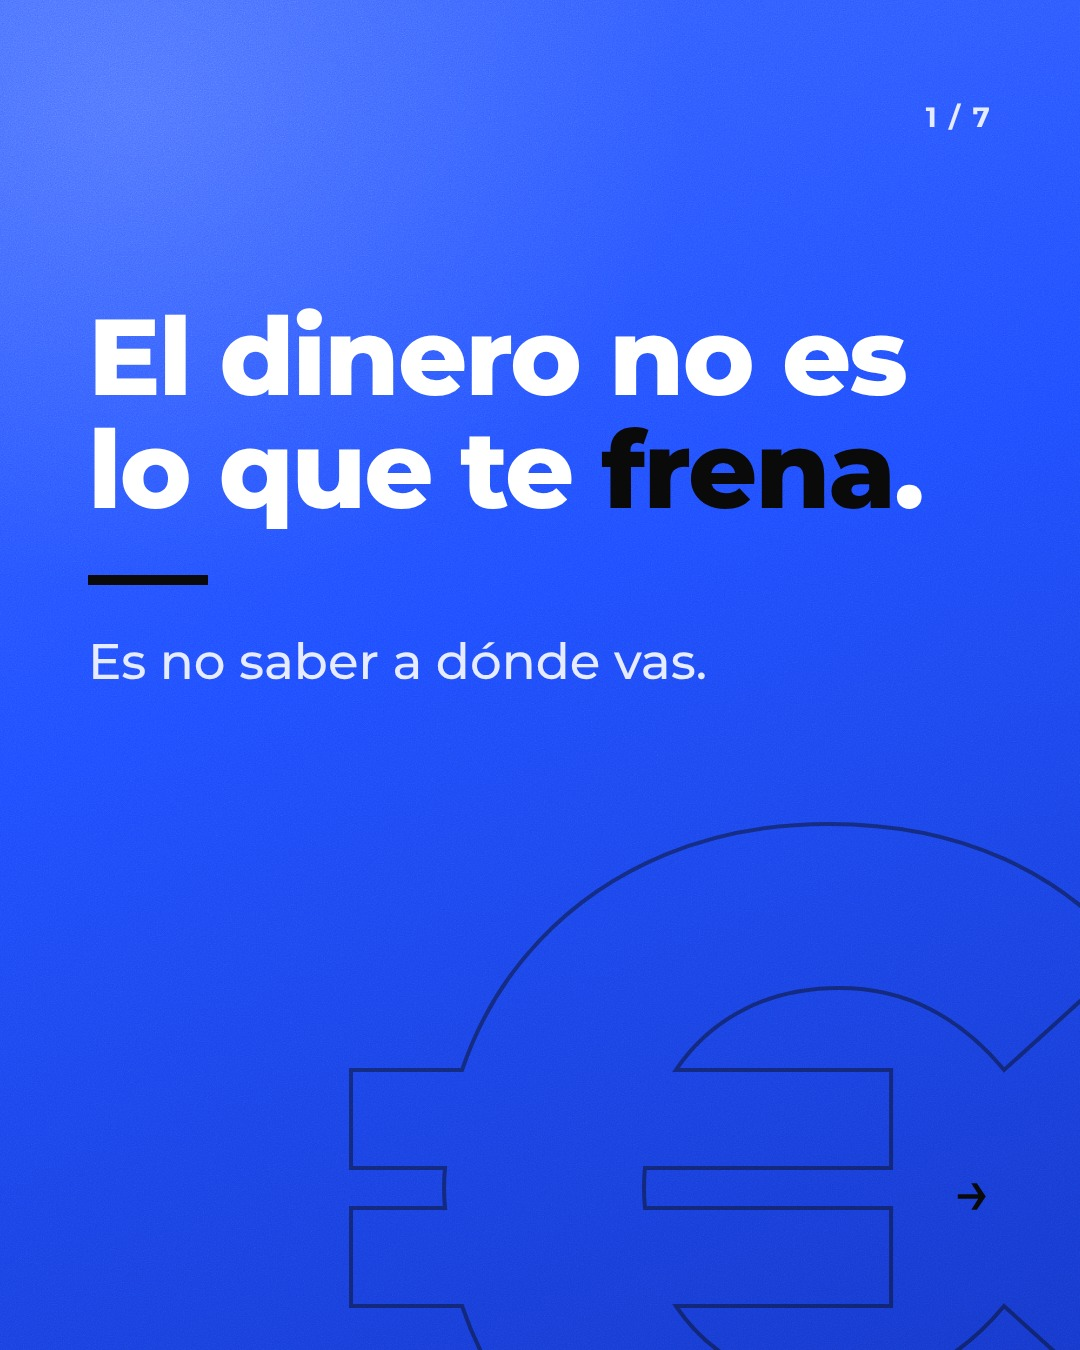
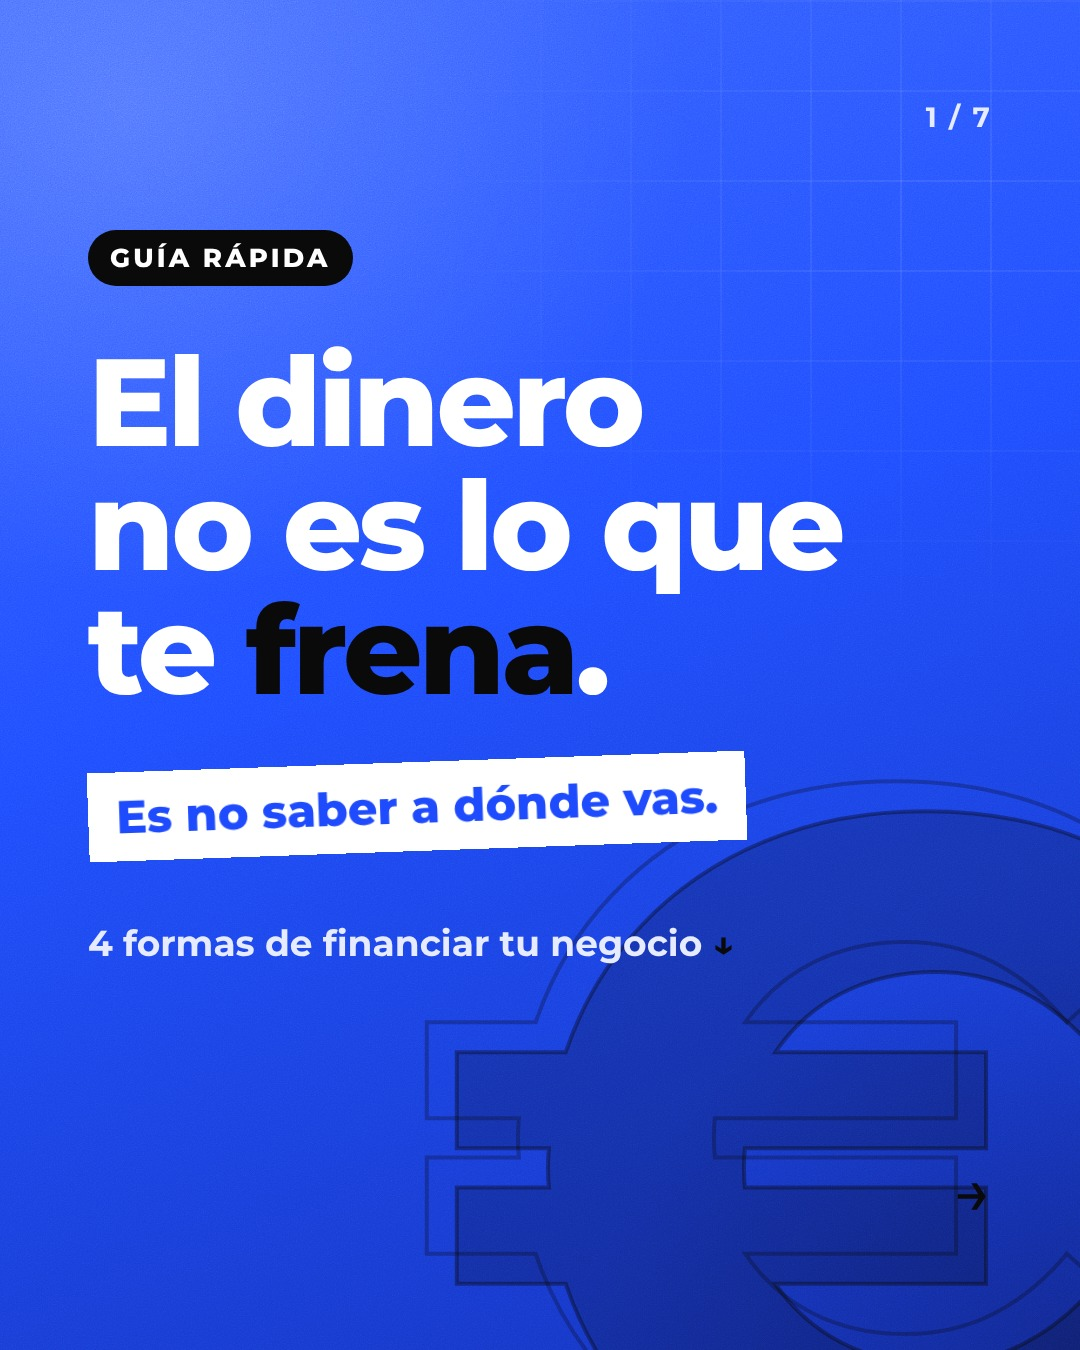
12-financiacion: versión gráfica + historia de aviso del viernes 13
Claude-Session: https://claude.ai/code/session_017QZaA8qgokDHtEnzxU5B1Y

diff --git a/tools/render_12_financiacion.py b/tools/render_12_financiacion.py
@@ -1,100 +1,188 @@
-"""Carrusel 12-financiacion (azul, 7 diapositivas, explicativo).
-Uso: python3 tools/render_12_financiacion.py  -> genera 12-financiacion/1..7.jpg
+"""Carrusel 12-financiacion (azul, 7 diapositivas, explicativo, versión gráfica) + historia de aviso.
+Uso: python3 tools/render_12_financiacion.py
+  -> 12-financiacion/1..7.jpg (1080x1350) y historias/2026-11-13-viernes-post.jpg (1080x1920)
 Requiere Montserrat en /tmp/mont/fonts/ttf (git clone github.com/JulietaUla/Montserrat /tmp/mont)."""
-import asyncio, os, sys
+import asyncio, os
 from playwright.async_api import async_playwright
 from PIL import Image
 
-# Mismo fondo y fuentes que tools/render_carrusel_textura.py
-F="/tmp/mont/fonts/ttf/"
-FONTS=f"""@font-face{{font-family:M;src:url(file://{F}Montserrat-Medium.ttf);font-weight:500}}
+F = "/tmp/mont/fonts/ttf/"
+FONTS = f"""@font-face{{font-family:M;src:url(file://{F}Montserrat-Medium.ttf);font-weight:500}}
 @font-face{{font-family:M;src:url(file://{F}Montserrat-Bold.ttf);font-weight:700}}
 @font-face{{font-family:M;src:url(file://{F}Montserrat-ExtraBold.ttf);font-weight:800}}"""
-GRAIN='<svg style="position:absolute;inset:0;width:100%;height:100%;mix-blend-mode:overlay;opacity:{o}" xmlns="http://www.w3.org/2000/svg"><filter id="n"><feTurbulence type="fractalNoise" baseFrequency="0.85" numOctaves="3" stitchTiles="stitch"/><feColorMatrix type="saturate" values="0"/></filter><rect width="100%" height="100%" filter="url(#n)"/></svg>'
-BLUE_BG='<div style="position:absolute;inset:0;background:linear-gradient(160deg,#3A62FF 0%,#1F4BFF 45%,#1636C9 100%)"></div><div style="position:absolute;inset:0;background:radial-gradient(800px 700px at 12% 8%,#ffffff22,transparent 70%)"></div>'+GRAIN.format(o=.45)
+GRAIN = ('<svg style="position:absolute;inset:0;width:100%;height:100%;mix-blend-mode:overlay;opacity:{o}" '
+         'xmlns="http://www.w3.org/2000/svg"><filter id="n"><feTurbulence type="fractalNoise" baseFrequency="0.85" '
+         'numOctaves="3" stitchTiles="stitch"/><feColorMatrix type="saturate" values="0"/></filter>'
+         '<rect width="100%" height="100%" filter="url(#n)"/></svg>')
+BLUE = ('<div style="position:absolute;inset:0;background:linear-gradient(160deg,#3A62FF 0%,#1F4BFF 45%,#1430B8 100%)"></div>'
+        '<div style="position:absolute;inset:0;background:radial-gradient(800px 700px at 12% 8%,#ffffff26,transparent 70%),'
+        'radial-gradient(700px 600px at 100% 100%,#0A0A0A40,transparent 70%)"></div>')
+GRID = ('<div style="position:absolute;inset:0;background-image:linear-gradient(#ffffff14 2px,transparent 2px),'
+        'linear-gradient(90deg,#ffffff14 2px,transparent 2px);background-size:90px 90px;'
+        '-webkit-mask-image:radial-gradient(700px 600px at 85% 15%,#000,transparent 75%)"></div>')
 
-OUT = os.path.join(os.path.dirname(__file__), "..", "12-financiacion")
+ROOT = os.path.join(os.path.dirname(__file__), "..")
 W, H, PY, PX = 1080, 1350, 190, 88
 K = '<span style="color:#0A0A0A">'
 SUB = "#E6EBFF"
 TOTAL = 7
 
+# Iconos de línea (blanco, 200x200)
+S = 'fill="none" stroke="#fff" stroke-width="9" stroke-linecap="round" stroke-linejoin="round"'
+ICONS = {
+    "monedas": f'<svg width="200" height="200" viewBox="0 0 200 200"><g {S}><ellipse cx="80" cy="150" rx="55" ry="18"/>'
+               f'<path d="M25 150v-24M135 150v-24"/><ellipse cx="80" cy="126" rx="55" ry="18"/><path d="M25 126v-24M135 126v-24"/>'
+               f'<ellipse cx="80" cy="102" rx="55" ry="18" fill="#0A0A0A"/><circle cx="150" cy="58" r="34"/><text x="150" y="72" text-anchor="middle" font-family="M" font-weight="800" font-size="40" fill="#fff" stroke="none">€</text></g></svg>',
+    "personas": f'<svg width="200" height="200" viewBox="0 0 200 200"><g {S}><circle cx="70" cy="70" r="28"/>'
+                f'<path d="M20 165c0-32 22-52 50-52s50 20 50 52"/><circle cx="135" cy="62" r="24" fill="#0A0A0A"/>'
+                f'<path d="M108 108c9-6 17-8 27-8 26 0 45 19 45 50"/></g></svg>',
+    "documento": f'<svg width="200" height="200" viewBox="0 0 200 200"><g {S}><path d="M50 20h70l35 35v125H50z"/>'
+                 f'<path d="M120 20v35h35"/><path d="M75 95h55M75 120h55"/><circle cx="140" cy="155" r="30" fill="#0A0A0A"/>'
+                 f'<path d="M127 155l9 9 17-18"/></g></svg>',
+    "banco": f'<svg width="200" height="200" viewBox="0 0 200 200"><g {S}><path d="M20 70l80-45 80 45z"/>'
+             f'<path d="M40 85v65M80 85v65M120 85v65M160 85v65"/><path d="M20 170h160"/></g></svg>',
+}
 
-def page(n, inner, deco="", last=False):
+
+def wrap(inner, w=W, h=H):
+    return (f'<html><head><style>{FONTS}body{{margin:0}}</style></head><body>'
+            f'<div style="position:relative;overflow:hidden;width:{w}px;height:{h}px;font-family:M;color:#fff">{inner}</div></body></html>')
+
+
+def page(n, inner, deco="", last=False, grid=True):
     cnt = f'<div style="position:absolute;right:{PX}px;top:{PY-90}px;font-size:28px;font-weight:700;letter-spacing:.08em;color:{SUB}">{n} / {TOTAL}</div>'
     foot = (f'<div style="position:absolute;right:{PX}px;bottom:{PY-60}px;font-size:34px;font-weight:700">Escríbeme por privado <span style="color:#0A0A0A">→</span></div>'
             if last else f'<div style="position:absolute;right:{PX}px;bottom:{PY-70}px;font-size:64px;font-weight:500;color:#0A0A0A">→</div>')
-    return f"""<html><head><style>{FONTS}body{{margin:0}}</style></head><body>
-<div style="position:relative;overflow:hidden;width:{W}px;height:{H}px;font-family:M;color:#fff">{BLUE_BG}{deco}{cnt}{inner}{foot}</div></body></html>"""
+    return wrap(BLUE + (GRID if grid else "") + deco + GRAIN.format(o=.42) + cnt + inner + foot)
 
 
-def giant(ch, right=None, left=None, bottom=-420, size=1150, op=.35):
-    side = f"right:{right}px" if right is not None else f"left:{left}px"
-    return f'<div style="position:absolute;{side};bottom:{bottom}px;font-size:{size}px;font-weight:800;line-height:1;color:transparent;-webkit-text-stroke:4px #0A0A0A;opacity:{op}">{ch}</div>'
+def chip(txt, dark=True):
+    bg = "background:#0A0A0A;color:#fff" if dark else "border:3px solid #0A0A0A;color:#0A0A0A"
+    return f'<span style="display:inline-block;{bg};padding:12px 22px;border-radius:999px;font-size:26px;font-weight:800;letter-spacing:.12em">{txt}</span>'
 
 
-def big(title, sub, top=300):
-    return (f'<div style="position:absolute;left:{PX}px;right:{PX}px;top:{top}px">'
-            f'<div style="font-size:108px;font-weight:800;line-height:1.05;letter-spacing:-0.02em">{title}</div>'
-            f'<div style="width:120px;height:10px;background:#0A0A0A;margin-top:48px"></div>'
-            f'<p style="margin:44px 0 0;font-size:50px;font-weight:500;line-height:1.3;color:{SUB}">{sub}</p></div>')
+# ---------- 1 · portada ----------
+euro = ''.join(
+    f'<div style="position:absolute;right:{-150+o}px;bottom:{-300+o}px;font-size:980px;font-weight:800;line-height:1;'
+    f'color:transparent;-webkit-text-stroke:{4 if i else 0}px #0A0A0A;opacity:{.18+i*.12}">€</div>' for i, o in enumerate((60, 30, 0)))
+euro += '<div style="position:absolute;right:-150px;bottom:-300px;font-size:980px;font-weight:800;line-height:1;color:#0A0A0A;opacity:.22">€</div>'
+s1 = page(1, f'''
+<div style="position:absolute;left:{PX}px;top:{PY+40}px">{chip("GUÍA RÁPIDA")}</div>
+<div style="position:absolute;left:{PX}px;right:{PX}px;top:{PY+150}px">
+  <div style="font-size:124px;font-weight:800;line-height:1;letter-spacing:-0.03em">El dinero<br>no es lo que<br>te {K}frena</span>.</div>
+  <div style="display:inline-block;margin-top:50px;background:#fff;color:#1F4BFF;padding:16px 28px;font-size:46px;font-weight:800;transform:rotate(-2deg)">Es no saber a dónde vas.</div>
+  <div style="margin-top:70px;font-size:36px;font-weight:700;color:{SUB}">4 formas de financiar tu negocio <span style="color:#0A0A0A">↓</span></div>
+</div>''', deco=euro)
 
 
-def lista(label, title, items, pro, contra, extra=""):
-    lis = "".join(
-        f'<div style="display:flex;gap:22px;margin-top:34px;font-size:44px;font-weight:500;line-height:1.3">'
-        f'<span style="color:#0A0A0A;font-weight:800">—</span><span>{t}</span></div>' for t in items)
-    pc = (f'<div style="display:flex;gap:16px;margin-top:56px;font-size:34px;font-weight:700">'
-          f'<span style="background:#0A0A0A;padding:12px 22px;border-radius:6px">+ {pro}</span>'
-          f'<span style="border:3px solid #0A0A0A;padding:9px 22px;border-radius:6px">− {contra}</span></div>')
-    return (f'<div style="position:absolute;left:{PX}px;right:{PX}px;top:{PY+70}px">'
-            f'<div style="font-size:30px;font-weight:800;letter-spacing:.14em;color:#0A0A0A">{label}</div>'
-            f'<div style="margin-top:30px;font-size:84px;font-weight:800;line-height:1.08;letter-spacing:-0.02em">{title}</div>'
-            f'<div style="margin-top:14px">{lis}</div>{pc}{extra}</div>')
+# ---------- 2-5 · las 4 formas ----------
+def forma(n, num, label, title, icon, items, pro, contra, extra=""):
+    big_num = (f'<div style="position:absolute;right:-30px;bottom:-140px;font-size:640px;font-weight:800;line-height:1;'
+               f'color:transparent;-webkit-text-stroke:4px #0A0A0A;opacity:.28;letter-spacing:-0.05em">{num}</div>')
+    cards = "".join(
+        f'<div style="display:flex;align-items:center;gap:26px;margin-top:20px;padding:22px 28px;border-radius:22px;'
+        f'background:#ffffff1f;border:2px solid #ffffff40;backdrop-filter:blur(4px)">'
+        f'<span style="flex:none;width:52px;height:52px;border-radius:50%;background:#0A0A0A;display:flex;align-items:center;'
+        f'justify-content:center;font-size:26px;font-weight:800">{i}</span>'
+        f'<span style="font-size:37px;font-weight:500;line-height:1.25">{t}</span></div>' for i, t in enumerate(items, 1))
+    pc = (f'<div style="display:flex;gap:16px;margin-top:34px;font-size:32px;font-weight:700">'
+          f'<span style="background:#0A0A0A;padding:12px 24px;border-radius:999px">+ {pro}</span>'
+          f'<span style="border:3px solid #0A0A0A;padding:9px 24px;border-radius:999px">− {contra}</span></div>')
+    body = (f'<div style="position:absolute;right:{PX-10}px;top:{PY+10}px">{ICONS[icon]}</div>'
+            f'<div style="position:absolute;left:{PX}px;right:{PX}px;top:{PY+40}px">{chip(num + " · " + label)}'
+            f'<div style="margin-top:34px;width:680px;font-size:82px;font-weight:800;line-height:1.04;letter-spacing:-0.02em">{title}</div>'
+            f'<div style="margin-top:26px">{cards}</div>{pc}{extra}</div>')
+    return page(n, body, deco=big_num, grid=False)
 
 
-slides = [
-    page(1, big(f"El dinero no es lo que te {K}frena</span>.", "Es no saber a dónde vas."), giant("€", right=-60, bottom=-330, size=1000, op=.45)),
-    page(2, lista("1 · SIN PEDIR A NADIE", f"Empieza con lo que {K}tienes</span>.",
-                  ["Ahorra con gastos mínimos y empieza pequeño.",
-                   "Cobra por adelantado: señal o preventa.",
-                   "Negocia pagar a tus proveedores a 30–60 días."],
-                  "No debes nada", "Es más lento")),
-    page(3, lista("2 · CON UN SOCIO O INVERSOR", f"Alguien que pone {K}dinero</span>.",
-                  ["Un socio que entra en tu negocio.",
-                   "Business angels: inversores particulares.",
-                   "Crowdfunding: muchas personas aportan poco."],
-                  "Más capital", "Compartes decisiones",
-                  extra=f'<p style="margin:36px 0 0;font-size:38px;font-weight:700;line-height:1.3">¿Buscas socio? Antes de meter dinero, alguien tiene que {K}mirar los números</span>.</p>')),
-    page(4, lista("3 · AYUDAS PÚBLICAS", f"Dinero que no se {K}devuelve</span>.",
-                  ["Tarifa plana: 80 €/mes de cuota el primer año.",
-                   "Cuota cero (Andalucía): la Junta te devuelve esos 80 €, si la convocatoria está abierta.",
-                   "Capitalizar el paro: cobras de golpe lo que te queda para invertirlo."],
-                  "No se devuelve", "Requisitos y plazos")),
-    page(5, lista("4 · PRÉSTAMOS", f"Deuda, pero con {K}ayuda</span>.",
-                  ["Microcréditos sin aval (MicroBank).",
-                   "ENISA Jóvenes: préstamo público para sociedades limitadas.",
-                   "Banco con aval de Garántia, la sociedad de garantía andaluza."],
-                  "Dinero rápido", "Hay que devolverlo")),
-    page(6, big(f"Ninguna sirve sin un {K}plan</span>.", "Quien quiere llegar a la Z de golpe, abandona en la C."), giant("Z", right=-60)),
-    page(7, big(f"Empieza por la {K}A</span>.", "¿Sabes cuál es la tuya?"), giant("A", right=-120), last=True),
-]
+s2 = forma(2, "01", "SIN PEDIR A NADIE", f"Empieza con lo que {K}tienes</span>.", "monedas",
+           ["Ahorra con gastos mínimos y empieza pequeño.",
+            "Cobra por adelantado: señal o preventa.",
+            "Paga a tus proveedores a 30–60 días."],
+           "No debes nada", "Es más lento")
+s3 = forma(3, "02", "SOCIO O INVERSOR", f"Alguien que pone {K}dinero</span>.", "personas",
+           ["Un socio que entra en tu negocio.",
+            "Business angels: inversores particulares.",
+            "Crowdfunding: muchas personas aportan poco."],
+           "Más capital", "Compartes decisiones",
+           extra=f'<p style="margin:30px 0 0;font-size:36px;font-weight:700;line-height:1.3">¿Buscas socio? Antes de meter dinero, alguien tiene que {K}mirar los números</span>.</p>')
+s4 = forma(4, "03", "AYUDAS PÚBLICAS", f"Dinero que no se {K}devuelve</span>.", "documento",
+           ["Tarifa plana: 80 €/mes de cuota el primer año.",
+            "Cuota cero (Andalucía): la Junta te devuelve esos 80 €, si está abierta.",
+            "Capitalizar el paro: cobras de golpe lo que te queda."],
+           "No se devuelve", "Requisitos y plazos")
+s5 = forma(5, "04", "PRÉSTAMOS", f"Deuda, pero con {K}ayuda</span>.", "banco",
+           ["Microcréditos sin aval (MicroBank).",
+            "ENISA Jóvenes: préstamo público para SL.",
+            "Banco con aval de Garántia (Andalucía)."],
+           "Dinero rápido", "Hay que devolverlo")
+
+# ---------- 6 · camino A → Z que se rompe en la C ----------
+xs = [110, 300, 490]
+track = ('<svg style="position:absolute;left:0;top:760px" width="1080" height="320">'
+         '<path d="M110 160 L490 160" stroke="#fff" stroke-width="10" stroke-linecap="round"/>'
+         '<path d="M530 160 L960 160" stroke="#0A0A0A" stroke-width="8" stroke-dasharray="4 26" stroke-linecap="round" opacity=".7"/>'
+         + ''.join(f'<circle cx="{x}" cy="160" r="46" fill="{"#0A0A0A" if i < 2 else "#fff"}"/>'
+                   f'<text x="{x}" y="176" text-anchor="middle" font-family="M" font-weight="800" font-size="46" '
+                   f'fill="{"#fff" if i < 2 else "#1F4BFF"}">{l}</text>' for i, (x, l) in enumerate(zip(xs, "ABC")))
+         + '<circle cx="960" cy="160" r="46" fill="none" stroke="#0A0A0A" stroke-width="6" stroke-dasharray="10 10"/>'
+         '<text x="960" y="176" text-anchor="middle" font-family="M" font-weight="800" font-size="46" fill="#0A0A0A">Z</text>'
+         '<path d="M470 40 l40 40 M510 40 l-40 40" stroke="#0A0A0A" stroke-width="10" stroke-linecap="round"/>'
+         '<text x="490" y="270" text-anchor="middle" font-family="M" font-weight="700" font-size="30" fill="#fff">aquí abandona</text></svg>')
+s6 = page(6, f'''
+<div style="position:absolute;left:{PX}px;right:{PX}px;top:{PY+90}px">
+  <div style="font-size:112px;font-weight:800;line-height:1.02;letter-spacing:-0.03em">Ninguna sirve<br>sin un {K}plan</span>.</div>
+  <p style="margin:44px 0 0;font-size:46px;font-weight:500;line-height:1.3;color:{SUB}">Quien quiere llegar a la Z de golpe, abandona en la C.</p>
+</div>{track}''')
+
+# ---------- 7 · escalones A, B, C ----------
+steps = ''.join(
+    f'<div style="position:absolute;left:{PX + i*300}px;bottom:{PY+20}px;width:270px;height:{150 + i*140}px;border-radius:18px 18px 0 0;'
+    f'{"background:#0A0A0A" if i == 0 else "border:5px solid #0A0A0A;border-bottom:none;box-sizing:border-box"}">'
+    f'<div style="position:absolute;left:28px;top:18px;font-size:{110 if i == 0 else 80}px;font-weight:800;'
+    f'color:{"#fff" if i == 0 else "transparent"};{"" if i == 0 else "-webkit-text-stroke:3px #0A0A0A"}">{l}</div></div>'
+    for i, l in enumerate("ABC"))
+s7 = page(7, f'''
+<div style="position:absolute;left:{PX}px;right:{PX}px;top:{PY+40}px">
+  <div style="font-size:124px;font-weight:800;line-height:1;letter-spacing:-0.03em">Empieza<br>por la {K}A</span>.</div>
+  <p style="margin:40px 0 0;font-size:48px;font-weight:700;line-height:1.3">¿Sabes cuál es la tuya?</p>
+</div>{steps}''', last=True, grid=False)
+
+# ---------- historia de aviso (1080x1920) ----------
+story = wrap(f'''<div style="position:absolute;inset:0;background:#070708"></div>
+<div style="position:absolute;inset:0;background:radial-gradient(900px 800px at 50% 45%,#1F4BFF66,transparent 70%)"></div>
+{GRAIN.format(o=.35)}
+<div style="position:absolute;left:96px;right:96px;top:300px">{chip("NUEVO POST")}
+  <div style="margin-top:40px;font-size:96px;font-weight:800;line-height:1.04;letter-spacing:-0.02em">¿El dinero te <span style="color:#1F4BFF">frena</span>?</div>
+  <p style="margin:40px 0 0;font-size:46px;font-weight:500;line-height:1.3;color:#B8BCC8">4 formas de financiar tu negocio, con sus pros y contras.</p>
+</div>
+<div style="position:absolute;left:50%;top:860px;width:600px;margin-left:-300px;transform:rotate(-4deg);box-shadow:0 40px 90px #000a">
+  <img src="file://{os.path.abspath(os.path.join(ROOT, '12-financiacion', '1.jpg'))}" style="width:600px;display:block;border-radius:14px">
+</div>
+<div style="position:absolute;bottom:200px;left:0;width:1080px;text-align:center;font-size:40px;font-weight:800">Lo tienes en mi perfil <span style="color:#1F4BFF">↓</span></div>
+<div style="position:absolute;bottom:130px;left:0;width:1080px;text-align:center;font-size:30px;font-weight:700;color:#B8BCC8">@alejandro.segura.asesor</div>''',
+             1080, 1920)
+
+
+async def shot(b, html, path, w, h):
+    pg = await b.new_page(viewport={"width": w, "height": h})
+    tmp = "/tmp/fin-render.html"
+    open(tmp, "w").write(html)
+    await pg.goto(f"file://{tmp}")
+    await pg.evaluate("document.fonts.ready")
+    await pg.wait_for_timeout(300)
+    await pg.screenshot(path="/tmp/fin-render.png")
+    await pg.close()
+    Image.open("/tmp/fin-render.png").convert("RGB").save(path, quality=92)
 
 
 async def main():
-    os.makedirs(OUT, exist_ok=True)
+    os.makedirs(os.path.join(ROOT, "12-financiacion"), exist_ok=True)
     async with async_playwright() as p:
         b = await p.chromium.launch(executable_path="/usr/bin/google-chrome", args=["--allow-file-access-from-files"])
-        for i, html in enumerate(slides, 1):
-            pg = await b.new_page(viewport={"width": W, "height": H})
-            tmp = f"/tmp/fin-{i}.html"
-            open(tmp, "w").write(html)
-            await pg.goto(f"file://{tmp}")
-            await pg.evaluate("document.fonts.ready")
-            await pg.wait_for_timeout(300)
-            await pg.screenshot(path=f"/tmp/fin-{i}.png")
-            await pg.close()
-            Image.open(f"/tmp/fin-{i}.png").convert("RGB").save(os.path.join(OUT, f"{i}.jpg"), quality=92)
+        for i, html in enumerate([s1, s2, s3, s4, s5, s6, s7], 1):
+            await shot(b, html, os.path.join(ROOT, "12-financiacion", f"{i}.jpg"), W, H)
+        await shot(b, story, os.path.join(ROOT, "historias", "2026-11-13-viernes-post.jpg"), 1080, 1920)
         await b.close()
 
 
